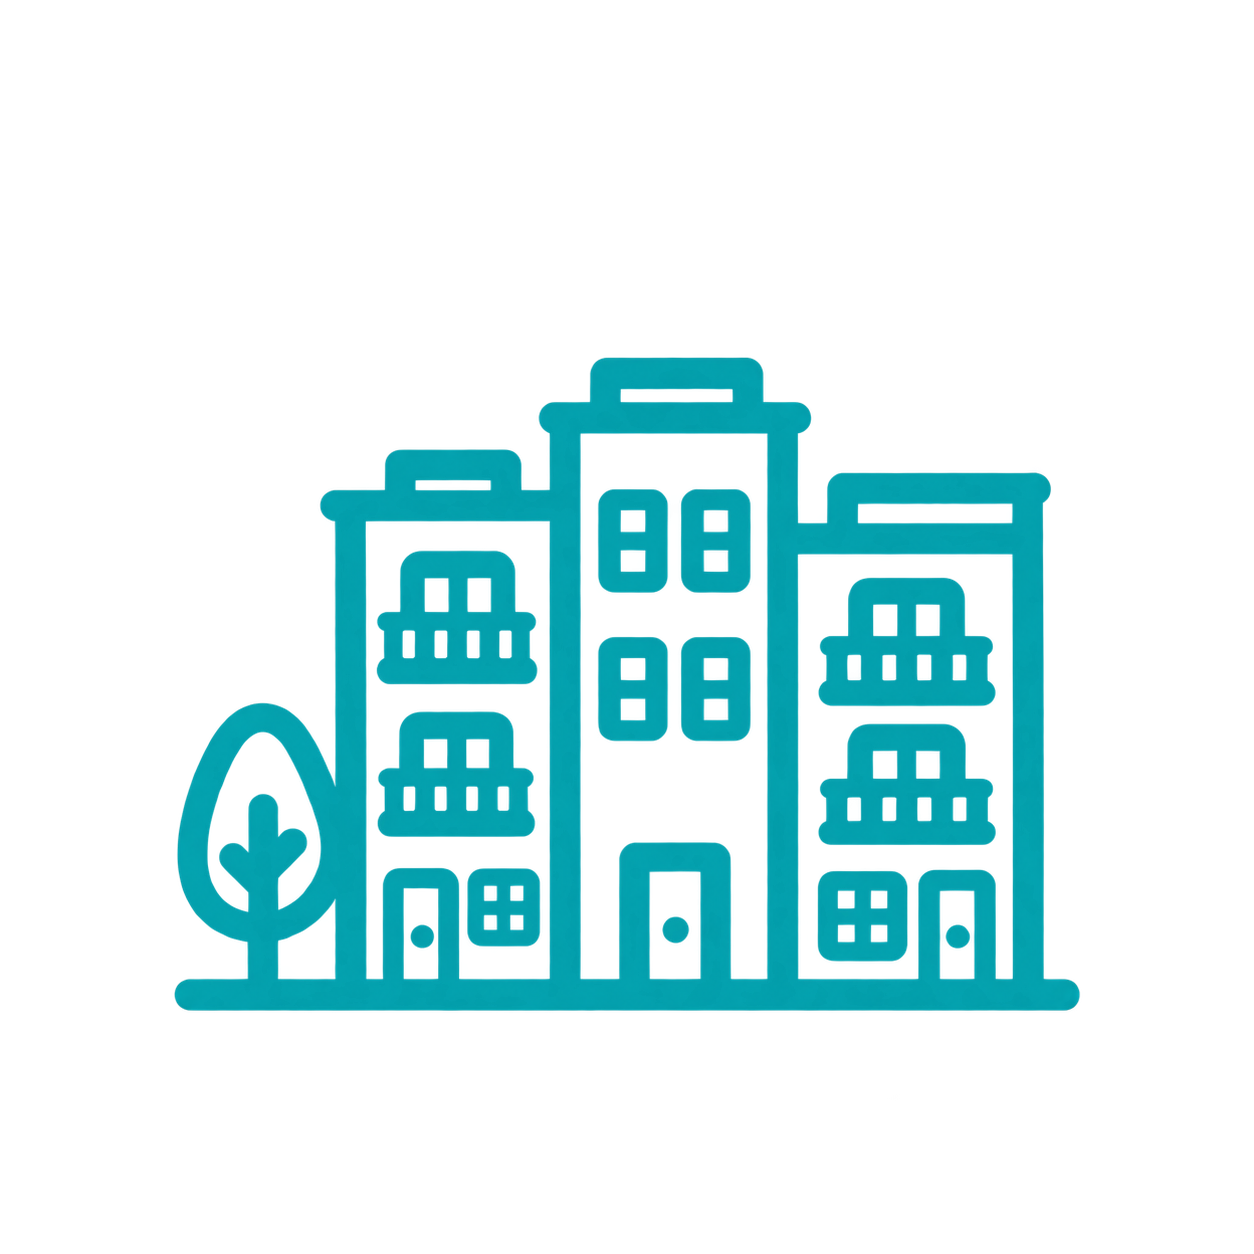
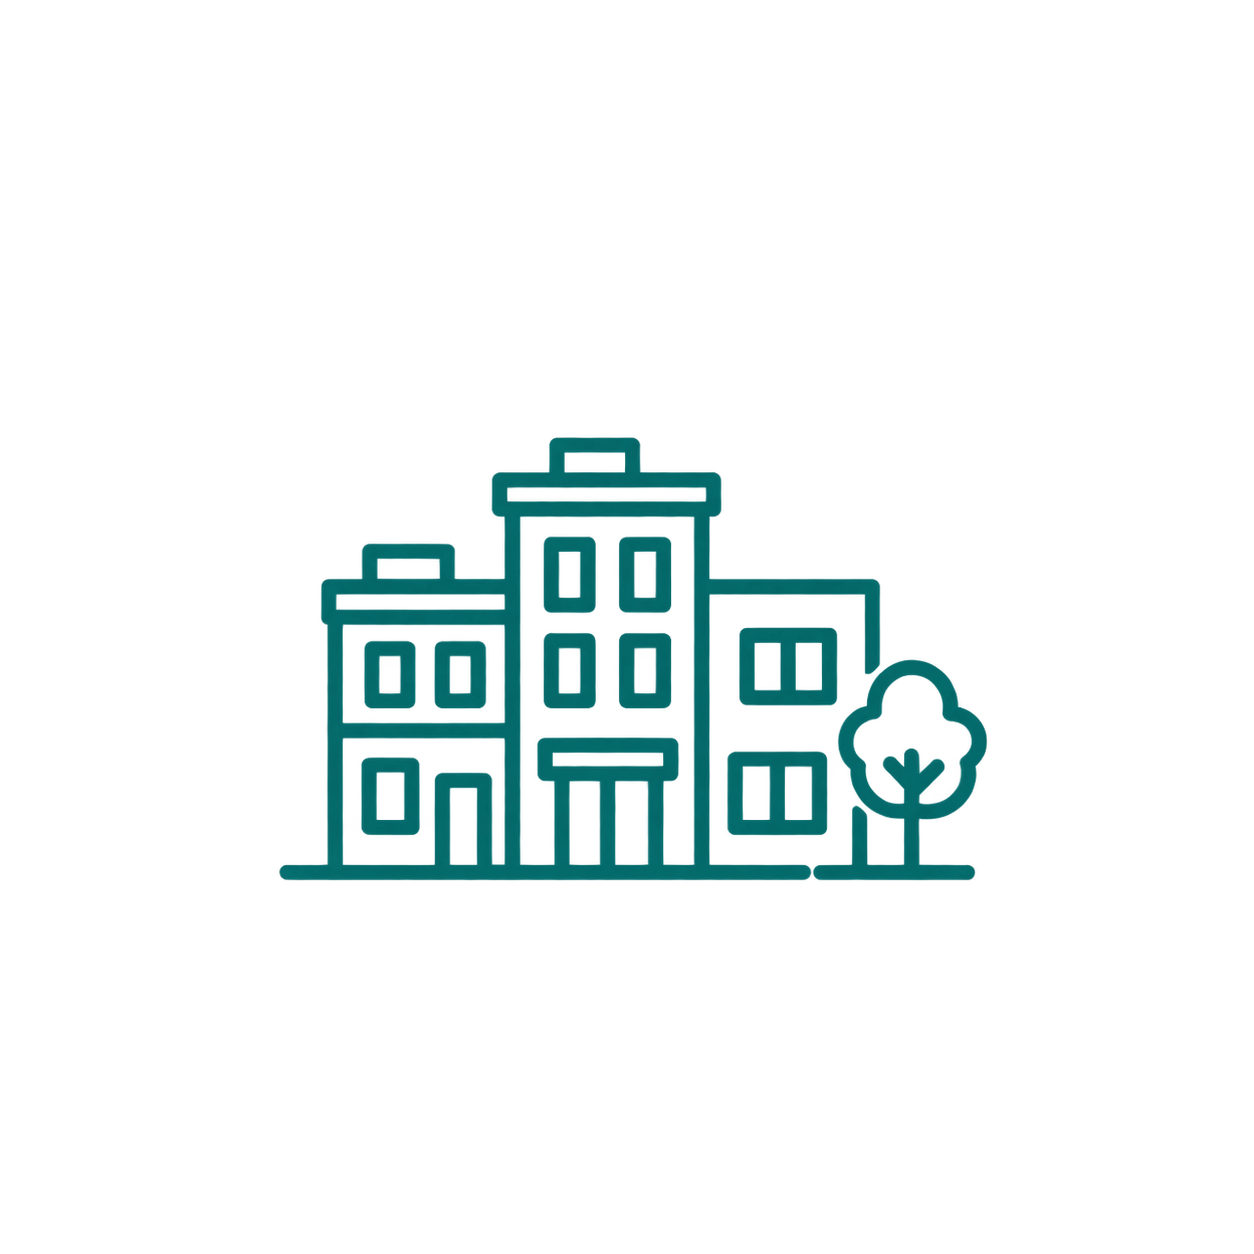
feat(ui): separate city and neighborhood artwork

Changed region(s): [[0.1244, 0.2799, 0.8708, 0.8086]]

diff --git a/apps/web/src/components/PointIcon.tsx b/apps/web/src/components/PointIcon.tsx
@@ -12,6 +12,7 @@ const PLACE_TYPE_CATEGORY_KEYS: Record<string, string> = {
   forest: "forest",
   desert: "desert",
   beach: "beach",
+  city: "city",
   village: "village",
   neighborhood: "neighborhood",
 };
@@ -130,6 +131,15 @@ export function PointIcon({ categoryKey, placeType }: { categoryKey: string; pla
   if (key === "neighborhood") {
     return (
       <svg viewBox="0 0 48 48" className="point-icon neighborhood" aria-hidden="true">
+        <path d="M5 40h38M9 40V19h10v21M19 40V11h10v29M29 40V22h10v18" />
+        <path d="M12 25h4M12 31h4M22 18h4M22 24h4M22 30h4M32 28h4M32 34h4" />
+        <path d="M6 40c3-5 6-5 9 0M36 40c2-4 4-4 6 0" />
+      </svg>
+    );
+  }
+  if (key === "city") {
+    return (
+      <svg viewBox="0 0 48 48" className="point-icon city" aria-hidden="true">
         <path d="M5 40h38M9 40V19h10v21M19 40V11h10v29M29 40V22h10v18" />
         <path d="M12 25h4M12 31h4M22 18h4M22 24h4M22 30h4M32 28h4M32 34h4" />
         <path d="M6 40c3-5 6-5 9 0M36 40c2-4 4-4 6 0" />

diff --git a/apps/web/tests/mobileExperience.test.tsx b/apps/web/tests/mobileExperience.test.tsx
@@ -135,6 +135,14 @@ describe("mobile route and forecast controls", () => {
     expect(container.querySelector(".destination-artwork.village")).not.toBeInTheDocument();
   });
 
+  it("uses a separate city artwork for city destinations", () => {
+    const { container } = render(
+      <DestinationIcon categoryKey="" placeType="city" className="destination-card-icon" />,
+    );
+    expect(container.querySelector(".destination-artwork.city")).toBeInTheDocument();
+    expect(container.querySelector(".destination-artwork.neighborhood")).not.toBeInTheDocument();
+  });
+
   it("keeps approved destination artwork inside the shared icon frame", () => {
     const { container } = render(
       <DestinationIcon categoryKey="waterfall" className="destination-card-icon" />,

diff --git a/apps/api/src/hawatch/modules/catalog/templates/catalog/seo_page.html b/apps/api/src/hawatch/modules/catalog/templates/catalog/seo_page.html
@@ -98,7 +98,7 @@
               {% endif %}
               {% if page.related_villages %}
                 <section aria-labelledby="seo-related-villages">
-                  <h2 id="seo-related-villages">روستاها و محلههای مرتبط</h2>
+                  <h2 id="seo-related-villages">شهرها، روستاها و محلههای مرتبط</h2>
                   <ul>
                     {% for village in page.related_villages %}
                       <li><a href="{{ village.href }}">{{ village.name }}</a></li>

diff --git a/apps/web/src/styles/states.css b/apps/web/src/styles/states.css
@@ -136,6 +136,11 @@ html:not([data-theme="light"]) body {
   -webkit-mask-image: url("/images/destination-artwork/glyphs/neighborhood.png");
 }
 
+.destination-artwork.city {
+  mask-image: url("/images/destination-artwork/glyphs/city.png");
+  -webkit-mask-image: url("/images/destination-artwork/glyphs/city.png");
+}
+
 .destination-card-copy {
   display: grid;
   min-width: 0;

diff --git a/apps/web/src/components/DestinationArtwork.tsx b/apps/web/src/components/DestinationArtwork.tsx
@@ -3,6 +3,7 @@ const ILLUSTRATED_CATEGORIES = new Set([
   "desert",
   "meadow",
   "beach",
+  "city",
   "village",
   "neighborhood",
 ]);

diff --git a/apps/api/src/hawatch/modules/catalog/identity.py b/apps/api/src/hawatch/modules/catalog/identity.py
@@ -11,6 +11,7 @@ IDENTITY_IMPORTANCE = {"primary", "support"}
 NAME_STATUSES = {"official", "established", "descriptive"}
 PLACE_TYPES = {
     "summit",
+    "city",
     "village",
     "neighborhood",
     "shelter",
@@ -43,13 +44,14 @@ PLACE_TYPE_CATEGORY_KEYS = {
     "forest": "forest",
     "desert": "desert",
     "beach": "beach",
+    "city": "city",
     "village": "village",
     "neighborhood": "neighborhood",
 }
 
 # Settlements used as an access/discovery point share the catalog relationship
 # rules, while retaining distinct semantic types and icons.
-ACCESS_PLACE_TYPES = frozenset({"village", "neighborhood"})
+ACCESS_PLACE_TYPES = frozenset({"city", "village", "neighborhood"})
 
 
 def category_key_for_point(category_key: object, place_type: object) -> str:
@@ -93,6 +95,7 @@ def seo_indexable_for_row(row: Mapping[str, object], profile: Mapping[str, objec
 # intentionally Persian for operator-managed rows with an unknown value.
 PLACE_TYPE_LABELS = {
     "summit": "قله",
+    "city": "شهر",
     "village": "روستا",
     "neighborhood": "محله",
     "shelter": "پناهگاه",
@@ -390,6 +393,8 @@ def infer_place_type(slug: str, name: str) -> str:
         return "spring"
     if "waterfall" in text or "آبشار" in text:
         return "waterfall"
+    if "city" in text or re.search(r"(?:^|\s)شهر(?:\s|$)", text):
+        return "city"
     if "neighborhood" in text or "district" in text or "محله" in text:
         return "neighborhood"
     if "village" in text or "روستا" in text:

diff --git a/apps/api/src/hawatch/modules/catalog/internal_links.py b/apps/api/src/hawatch/modules/catalog/internal_links.py
@@ -42,7 +42,7 @@ def related_public_routes(point: WeatherPoint) -> QuerySet[Route]:
 def related_public_destinations(point: WeatherPoint) -> QuerySet[WeatherPoint]:
     """Return destination siblings that provide an SSR entry for an access settlement.
 
-    A point-only village or neighborhood is stored in the same versioned catalog as the
+    A point-only city, village, or neighborhood is stored in the same versioned catalog as the
     independent destination it serves (for example a mountain or forest).
     That catalog grouping is the source of truth for this relationship; no
     slug list or geographic guess is maintained in the renderer. Restricting
@@ -63,7 +63,7 @@ def related_public_destinations(point: WeatherPoint) -> QuerySet[WeatherPoint]:
 
 
 def related_public_villages(destination: WeatherPoint) -> QuerySet[WeatherPoint]:
-    """Return indexable villages/neighborhoods linked from a destination.
+    """Return indexable cities, villages, and neighborhoods linked from a destination.
 
     The inverse of :func:`related_public_destinations` is kept as a separate
     query so the destination page itself provides the required crawlable

diff --git a/apps/api/tests/test_identity.py b/apps/api/tests/test_identity.py
@@ -11,3 +11,7 @@ def test_explicit_category_key_remains_authoritative_for_villages():
 
 def test_neighborhood_place_type_uses_a_distinct_category_key():
     assert category_key_for_point("", "neighborhood") == "neighborhood"
+
+
+def test_city_place_type_uses_a_distinct_category_key():
+    assert category_key_for_point("", "city") == "city"

diff --git a/docs/brand-assets.md b/docs/brand-assets.md
@@ -31,10 +31,12 @@ favicon عمداً یک mark مستقل و ثابت است؛ لوگوی کامل
 خوانده میشود؛ بنابراین برای ثبت نقطه جدید، آیکون را با همین فیلد انتخاب کنید
 و نیازی به تغییر کد یا deploy برای هر رکورد جدید نیست. کلیدهای فعلی عبارتاند
 از `mountain`، `ridge`، `volcano`، `waterfall`، `meadow`، `forest`، `desert`،
-`lake`، `beach`، `village` و `neighborhood`. کلید `village` از glyph خانهٔ روستایی
-و کلید `neighborhood` از glyph بافت ساختمانی محله استفاده میکند تا محله با روستا
-یا شهر اشتباه نشود. اگر شهرها اضافه شوند، باید با یک `place_type` و `category_key`
-مستقل ثبت شوند. کلید `ridge` برای ارتفاعات و خطالرأس بهصورت بصری در خانوادهٔ
+`lake`، `beach`، `city`، `village` و `neighborhood`. کلید `city` از glyph بافت
+شهری، کلید `neighborhood` از glyph محلهٔ کمتراکم و کلید `village` از glyph خانهٔ
+روستایی استفاده میکند تا شهر، محله و روستا با هم اشتباه نشوند. هر شهر باید با
+`place_type: "city"` و `category_key: "city"` ثبت شود و هر محلهٔ شهری با
+`place_type: "neighborhood"` و `category_key: "neighborhood"`. کلید `ridge` برای
+ارتفاعات و خطالرأس بهصورت بصری در خانوادهٔ
 کوه نمایش داده میشود تا ارتفاعات گوگلی و مقصدهای هممعنا از قلهها جدا و
 گمراهکننده نشوند؛ `beach` نیز آیکون ساحل مستقل دارد.
 
@@ -51,7 +53,7 @@ favicon عمداً یک mark مستقل و ثابت است؛ لوگوی کامل
 
 ## تصویر دستهٔ مقصد
 
-برای دستههای `waterfall`، `desert`، `meadow`، `beach`، `village` و `neighborhood`، آرتورکهای بدون
+برای دستههای `waterfall`، `desert`، `meadow`، `beach`، `city`، `village` و `neighborhood`، آرتورکهای بدون
 متن در `apps/web/public/images/destination-artwork/` نگهداری میشوند. این
 فایلها در UI بهصورت mask و با توکن `--teal` رنگ میگیرند تا در هر دو تم با
 سیستم طراحی یکدست بمانند. نام دسته یا هر کپشن دیگری نباید داخل خود تصویر تکرار

diff --git a/docs/catalog-contribution.md b/docs/catalog-contribution.md
@@ -88,9 +88,10 @@ python manage.py validate_catalog --all --database --check-links --strict
 ```
 
 این validator باید برای هر مقصد ورودی Hub، برای هر Route ورودی از مقصد، و برای
-هر Point indexable غیرمقصد ورودی از مقصد یا Route واقعی پیدا کند. روستای
-indexableِ بدون Route باید در همان catalog نسخهدار کنار مقصد اصلیِ غیرروستایی
-ثبت شده باشد تا renderer لینک واقعی از مقصد به روستا و از روستا به مقصد بسازد؛
+هر Point indexable غیرمقصد ورودی از مقصد یا Route واقعی پیدا کند. شهر، روستا یا
+محلهٔ indexableِ بدون Route باید در همان catalog نسخهدار کنار مقصد اصلیِ مرتبط
+ثبت شده باشد تا renderer لینک واقعی از مقصد به نقطهٔ دسترسی و از نقطهٔ دسترسی به
+مقصد بسازد؛
 این رابطه برای catalogهای آینده هم بدون فهرست slug دستی کار میکند. اگر Point
 مستقلِ بدون مسیر دارید، آن را مقصد اصلی کنید؛ برای waypoint فنی
 `seo_indexable: false` بگذارید تا صفحهاش فقط `noindex,follow` باشد.

diff --git a/docs/seo.md b/docs/seo.md
@@ -112,9 +112,9 @@ python manage.py validate_catalog --all --database --check-links --strict
 ```
 
 این بررسی مقصدها را مالک لینک Hub، Routeهای فعال را فرزندان مقصد، و Pointهای
-indexable غیرمقصد را اعضای یک Route واقعی در نظر میگیرد. روستای indexable و
-بدون Route باید در همان catalog یک مقصد اصلی غیرروستاییِ مرتبط داشته باشد تا
-صفحهٔ مقصد و صفحهٔ روستا هر دو لینک SSR واقعی داشته باشند. warningهای orphan
+indexable غیرمقصد را اعضای یک Route واقعی در نظر میگیرد. شهر، روستا یا محلهٔ
+indexable و بدون Route باید در همان catalog یک مقصد اصلیِ مرتبط داشته باشد تا
+صفحهٔ مقصد و صفحهٔ نقطهٔ دسترسی هر دو لینک SSR واقعی داشته باشند. warningهای orphan
 راهنمای اصلاح Catalog هستند؛ Point فنی/noindex عمداً از این گیت کنار گذاشته
 میشود و از Route، جستوجو یا API حذف نمیگردد.
 

diff --git a/docs/catalog-onboarding.md b/docs/catalog-onboarding.md
@@ -83,8 +83,9 @@ RoutePointهای واقعی تکمیل کنید.
 خانوادهٔ `mountain` نمایش داده میشود. برای ساحل نیز `beach` و برای دشت، کویر
 و آبشار بهترتیب `meadow`، `desert` و `waterfall` ثبت شوند. برای محلههای شهری
 مثل ولنجک از `place_type: "neighborhood"` و `category_key: "neighborhood"` استفاده
-کنید؛ محله با `village` یکی نیست و شهرها نیز در آینده باید نوع و کلید بصری مستقل
-داشته باشند. کلید ناشناخته نباید
+کنید؛ محله با `village` یکی نیست. شهرها با `place_type: "city"` و
+`category_key: "city"` ثبت میشوند و آیکون بافت شهری مستقل دارند؛ محله و شهر
+نباید یک کلید بصری مشترک داشته باشند. کلید ناشناخته نباید
 استفاده شود؛ UI برای جلوگیری از نمایش گمراهکننده بهجای کوه، نشان خنثی نشان
 میدهد.
 
